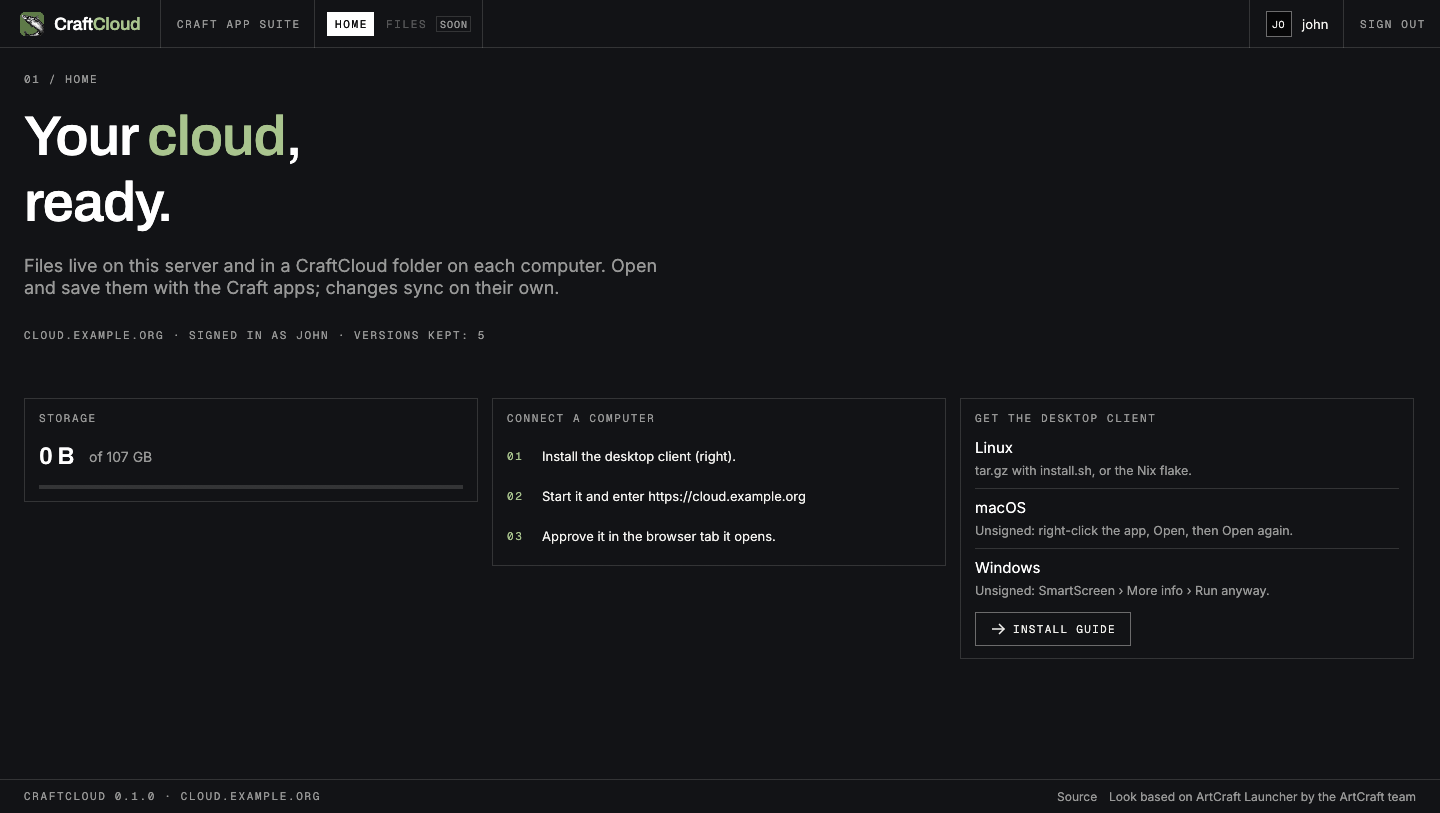
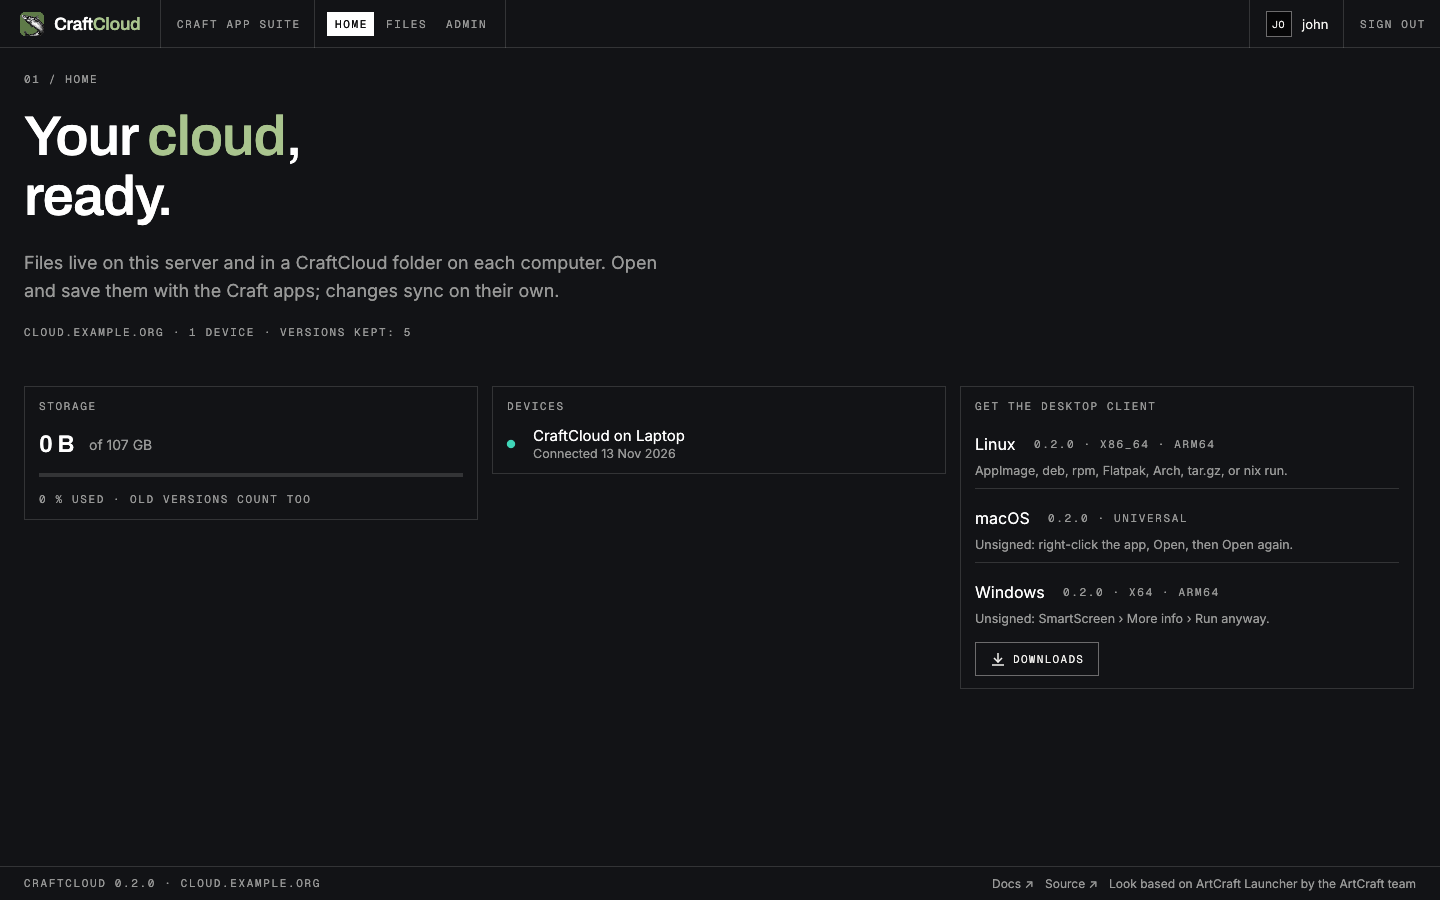
🐛 Web: the version shown before the server answers is the build's own; README screenshots say 0.2.0

diff --git a/crates/ui-egui/src/web/shots.rs b/crates/ui-egui/src/web/shots.rs
@@ -15,7 +15,11 @@ type H = Harness<'static, WebApp<FakeBackend>>;
 
 const UNINIT: &[u8] = br#"{"initialized":false,"admin_count":0,"registration_allowed":false}"#;
 const INIT: &[u8] = br#"{"initialized":true,"admin_count":1,"registration_allowed":false}"#;
-const CONFIG: &[u8] = br#"{"version":"0.1.0","web_apps":false,"public_url":"https://cloud.example.org","enabled_apps":[]}"#;
+/// The server's config.json as the screenshots' server answers it, with this build's version (a fixed one went stale).
+fn config() -> Vec<u8> {
+    format!(r#"{{"version":"{}","web_apps":false,"public_url":"https://cloud.example.org","enabled_apps":[]}}"#, env!("CARGO_PKG_VERSION"))
+        .into_bytes()
+}
 const ROOT: &str = "root1";
 /// The link to the folder Team (`/s/tokF`).
 const SHARED_FOLDER: &[u8] = br#"{"id":"s1","item_id":"top","item_name":"Team","item_type":"folder","token":"tokF","url":"https://cloud.example.org/s/tokF","has_password":false,"created_at":"2026-11-13T09:00:00Z"}"#;
@@ -57,7 +61,7 @@ fn visit(path: &str, code: Option<&str>, size: egui::Vec2, theme: egui::Theme) -
 fn start(h: &mut H, status: &[u8], signed_in: bool) {
     let b = &mut h.state_mut().backend;
     b.answer("/api/auth/status", ok(status));
-    b.answer("/craftcloud/config.json", ok(CONFIG));
+    b.answer("/craftcloud/config.json", ok(&config()));
     let me = if signed_in { ok(&fixture("me.json")) } else { Ok(HttpResponse::new(401, Vec::new())) };
     b.answer("/api/auth/me", me);
     h.run();
@@ -96,7 +100,7 @@ fn files(size: egui::Vec2, theme: egui::Theme, items: &[Value]) -> H {
     start(&mut h, INIT, true);
     let b = &mut h.state_mut().backend;
     b.answer("/api/folders", json_ok(&json!([{"id": ROOT, "name": "Personal", "path": "/Personal", "parent_id": null}])));
-    b.answer("/craftcloud/config.json", ok(CONFIG));
+    b.answer("/craftcloud/config.json", ok(&config()));
     h.run();
     let b = &mut h.state_mut().backend;
     b.answer(&format!("/api/folders/{ROOT}/resources?limit=200"), json_ok(&listing(items)));

diff --git a/crates/ui-egui/src/web/pages.rs b/crates/ui-egui/src/web/pages.rs
@@ -17,7 +17,7 @@ impl<B: Backend> WebApp<B> {
     }
 
     fn version(&self) -> String {
-        self.config.as_ref().map_or_else(|| "0.1.0".to_owned(), |c| c.version.clone())
+        shown_version(self.config.as_ref().map(|c| c.version.as_str()))
     }
 
     pub(super) fn home_ui(&mut self, ui: &mut Ui, area: egui::Rect) {
@@ -273,4 +273,21 @@ fn lower_day(when: &str) -> String {
         }
     }
     when.to_owned()
+}
+
+/// The version a page shows: the server's, or this build's own while the server's config hasn't come in (never a
+/// fixed number, which went stale with every release).
+fn shown_version(server: Option<&str>) -> String {
+    server.map_or_else(|| env!("CARGO_PKG_VERSION").to_owned(), str::to_owned)
+}
+
+#[cfg(test)]
+mod version_tests {
+    use super::shown_version;
+
+    #[test]
+    fn without_the_servers_config_a_page_shows_this_builds_version() {
+        assert_eq!(shown_version(None), env!("CARGO_PKG_VERSION"));
+        assert_eq!(shown_version(Some("9.9.9")), "9.9.9");
+    }
 }

diff --git a/docs/ROADMAP.md b/docs/ROADMAP.md
@@ -103,6 +103,9 @@ In the order planned so far; detail in [STATUS.md](STATUS.md#known-limits) and t
 
 ## Progress log
 
+- 2026-11-17: Web: the version a page shows before the server's config arrives is this build's own, not a fixed
+  "0.1.0"; the README's screenshots (`docs/screenshots/`) are rendered again by `web_shots`, which now takes the
+  version from the build too, so they say 0.2.0.
 - 2026-11-16: Version 0.2.0: share links, the public share page and version history on the web, single sign-on
   setup in plain words, Linux notifications, the Windows fixes found testing 0.1.1, the server hardening, a Home
   Manager module, the sync fixes the property tests and the engine tests found (upgrade all devices together), and

diff --git a/docs/RELEASE-NOTES.md b/docs/RELEASE-NOTES.md
@@ -2,6 +2,9 @@
 
 ## Unreleased
 
+- **Web: the right version before the server answers.** A page drawn before the server's settings arrived showed
+  version 0.1.0; it now shows the version it was built as.
+
 ## 0.2.0
 
 **Update the server and every desktop client, all of them together:** three sync fixes change how a client decides
